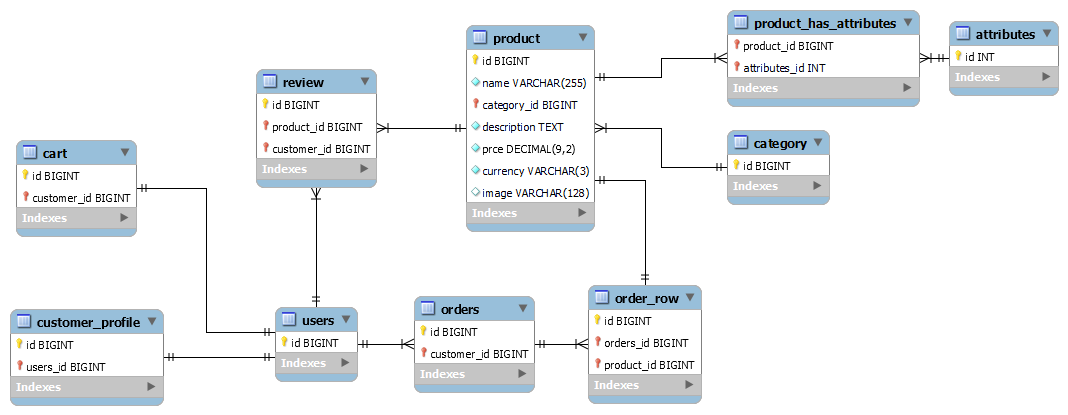
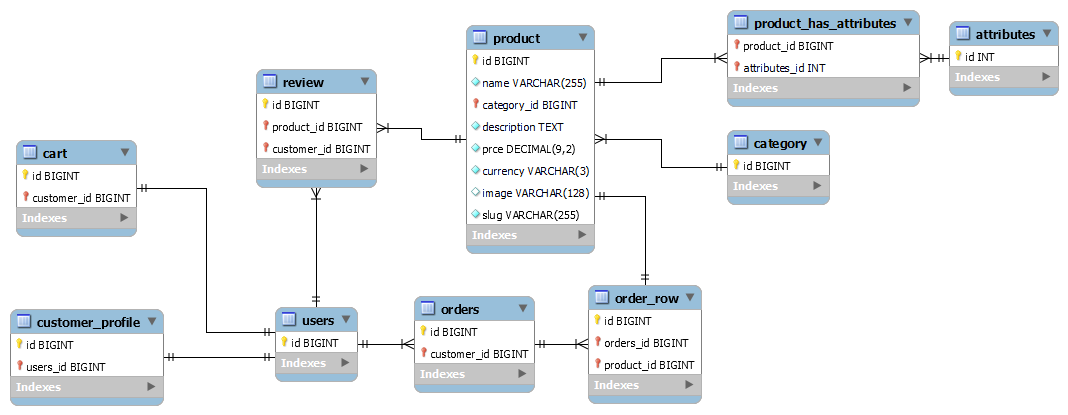
Added rest to get product by slug url

diff --git a/src/main/java/pl/nullpointerexception/shop/product/controller/ProductController.java b/src/main/java/pl/nullpointerexception/shop/product/controller/ProductController.java
@@ -1,9 +1,13 @@
 package pl.nullpointerexception.shop.product.controller;
 
+import jakarta.validation.constraints.Pattern;
 import lombok.RequiredArgsConstructor;
+import org.hibernate.validator.constraints.Length;
 import org.springframework.data.domain.Page;
 import org.springframework.data.domain.Pageable;
+import org.springframework.validation.annotation.Validated;
 import org.springframework.web.bind.annotation.GetMapping;
+import org.springframework.web.bind.annotation.PathVariable;
 import org.springframework.web.bind.annotation.RequestMapping;
 import org.springframework.web.bind.annotation.RestController;
 import pl.nullpointerexception.shop.product.model.Product;
@@ -11,6 +15,7 @@ import pl.nullpointerexception.shop.product.service.ProductService;
 
 @RestController
 @RequiredArgsConstructor
+@Validated
 @RequestMapping("/products")
 public class ProductController {
 
@@ -19,6 +24,15 @@ public class ProductController {
     @GetMapping("")
     public Page<Product> getProducts(Pageable pageable) {
         return productService.getProducts(pageable);
+    }
+
+    @GetMapping("/{slug}")
+    public Product getProduct (
+            @PathVariable
+            @Pattern(regexp = "[a-z0-9\\-]+")
+            @Length(max = 255)
+            String slug) {
+        return productService.getProduct(slug);
     }
 
 }

diff --git a/src/main/java/pl/nullpointerexception/shop/admin/controller/AdminProductController.java b/src/main/java/pl/nullpointerexception/shop/admin/controller/AdminProductController.java
@@ -1,5 +1,6 @@
 package pl.nullpointerexception.shop.admin.controller;
 
+import com.github.slugify.Slugify;
 import jakarta.validation.Valid;
 import lombok.RequiredArgsConstructor;
 import org.springframework.core.io.Resource;
@@ -82,7 +83,14 @@ public class AdminProductController {
                 .price(adminProductDTO.getPrice())
                 .currency(adminProductDTO.getCurrency())
                 .image(adminProductDTO.getImage())
+                .slug(slugifySlug(adminProductDTO.getSlug()))
                 .build();
+    }
+
+    private static String slugifySlug(String slug) {
+        Slugify slugify = new Slugify();
+        return slugify.withCustomReplacement("_", "-")
+                .slugify(slug);
     }
 
 }

diff --git a/src/main/java/pl/nullpointerexception/shop/product/repository/ProductRepository.java b/src/main/java/pl/nullpointerexception/shop/product/repository/ProductRepository.java
@@ -3,6 +3,10 @@ package pl.nullpointerexception.shop.product.repository;
 import org.springframework.data.jpa.repository.JpaRepository;
 import pl.nullpointerexception.shop.product.model.Product;
 
+import java.util.Optional;
+
 public interface ProductRepository extends JpaRepository<Product, Long> {
+
+    Optional<Product> findBySlug(String slug);
 
 }

diff --git a/src/main/java/pl/nullpointerexception/shop/product/service/ProductService.java b/src/main/java/pl/nullpointerexception/shop/product/service/ProductService.java
@@ -17,4 +17,8 @@ public class ProductService {
         return productRepository.findAll(pageable);
     }
 
+    public Product getProduct(String slug) {
+        return productRepository.findBySlug(slug).orElseThrow();
+    }
+
 }

diff --git a/src/main/java/pl/nullpointerexception/shop/admin/controller/dto/AdminProductDTO.java b/src/main/java/pl/nullpointerexception/shop/admin/controller/dto/AdminProductDTO.java
@@ -25,5 +25,8 @@ public class AdminProductDTO {
     private BigDecimal price;
     private AdminProductCurrency currency;
     private String image;
+    @NotBlank
+    @Length(min = 4)
+    private String slug;
 
 }

diff --git a/src/main/java/pl/nullpointerexception/shop/product/model/Product.java b/src/main/java/pl/nullpointerexception/shop/product/model/Product.java
@@ -25,5 +25,7 @@ public class Product {
     private String description;
     private BigDecimal price;
     private String currency;
+    private String image;
+    private String slug;
 
 }

diff --git a/src/main/java/pl/nullpointerexception/shop/admin/model/AdminProduct.java b/src/main/java/pl/nullpointerexception/shop/admin/model/AdminProduct.java
@@ -26,5 +26,6 @@ public class AdminProduct {
     @Enumerated(EnumType.STRING)
     private AdminProductCurrency currency;
     private String image;
+    private String slug;
 
 }
